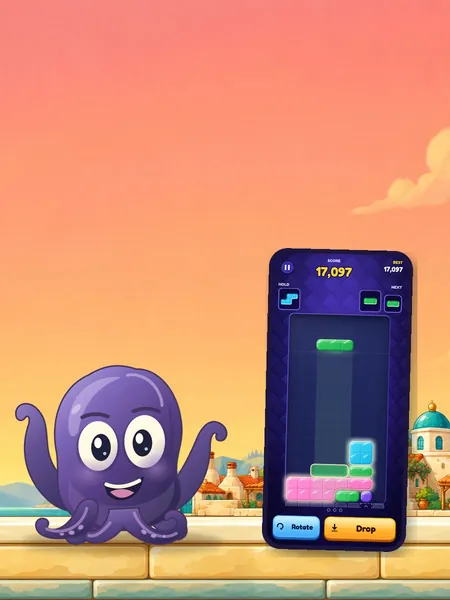
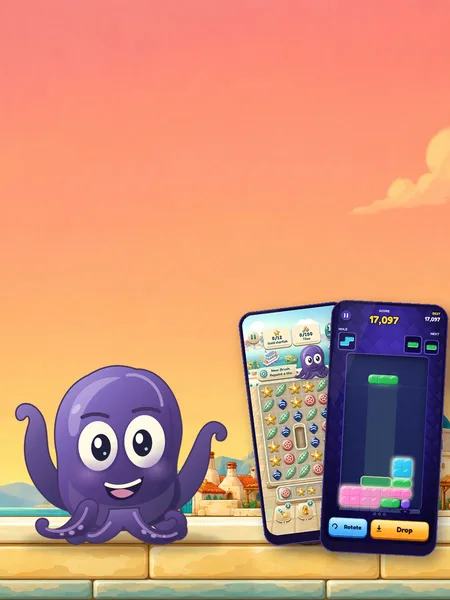
Home hero: Otto beside two phones (Turnstone and Tumble), set right of the studio cat; alt text updated

Changed region(s): [[0.5289, 0.39, 1.0, 0.96]]

diff --git a/index.html b/index.html
@@ -36,10 +36,10 @@
 <main id="main" tabindex="-1" class="main-wide">
 <section class="hero" aria-labelledby="studio-name">
 <picture class="hero-art">
-<source media="(max-width: 1099px)" type="image/webp" srcset="assets/img/home/hero-tall-450.webp?v=2 450w, assets/img/home/hero-tall-900.webp?v=2 900w" sizes="100vw">
-<source media="(max-width: 1099px)" srcset="assets/img/home/hero-tall-900.jpg?v=2 900w" sizes="100vw">
-<source type="image/webp" srcset="assets/img/home/hero-wide-1200.webp?v=2 1200w, assets/img/home/hero-wide-1800.webp?v=2 1800w, assets/img/home/hero-wide-2400.webp?v=2 2400w" sizes="100vw">
-<img src="assets/img/home/hero-wide-1200.jpg?v=2" srcset="assets/img/home/hero-wide-1200.jpg?v=2 1200w, assets/img/home/hero-wide-1800.jpg?v=2 1800w" sizes="100vw" width="2400" height="1200" alt="Otto the octopus and a phone showing Tumble, side by side on a sunny stone quay at golden hour, with the studio cat sitting between them and a harbor town behind" fetchpriority="high" decoding="async">
+<source media="(max-width: 1099px)" type="image/webp" srcset="assets/img/home/hero-tall-450.webp?v=4 450w, assets/img/home/hero-tall-900.webp?v=4 900w" sizes="100vw">
+<source media="(max-width: 1099px)" srcset="assets/img/home/hero-tall-900.jpg?v=4 900w" sizes="100vw">
+<source type="image/webp" srcset="assets/img/home/hero-wide-1200.webp?v=4 1200w, assets/img/home/hero-wide-1800.webp?v=4 1800w, assets/img/home/hero-wide-2400.webp?v=4 2400w" sizes="100vw">
+<img src="assets/img/home/hero-wide-1200.jpg?v=4" srcset="assets/img/home/hero-wide-1200.jpg?v=4 1200w, assets/img/home/hero-wide-1800.jpg?v=4 1800w" sizes="100vw" width="2400" height="1200" alt="Otto the octopus on a sunny stone quay at golden hour beside two phones showing Turnstone and Tumble, with the studio cat sitting between them and a harbor town behind" fetchpriority="high" decoding="async">
 </picture>
 <div class="hero-copy">
 <h1 id="studio-name" class="toy-title">Jarvis Studios</h1>

diff --git a/press/index.html b/press/index.html
@@ -38,7 +38,7 @@
 <nav class="breadcrumb" aria-label="Breadcrumb"><ol><li><a href="../">Home</a></li><li><a href="../about/">About</a></li><li aria-current="page">Press kit</li></ol></nav>
 <h1>Press kit</h1>
 <p class="lead">Facts, art and screenshots for writing about Jarvis Studios and our games.</p>
-<div class="press-hero"><picture><source type="image/webp" srcset="../assets/img/home/hero-wide-1200.webp 1200w, ../assets/img/home/hero-wide-1800.webp 1800w" sizes="(min-width: 1100px) 1048px, 92vw"><img class="panel-img" src="../assets/img/home/hero-wide-1200.jpg" width="2400" height="1200" alt="Otto the octopus and a phone showing Tumble on a sunny stone quay, with the studio cat between them" loading="lazy" decoding="async"></picture></div>
+<div class="press-hero"><picture><source type="image/webp" srcset="../assets/img/home/hero-wide-1200.webp 1200w, ../assets/img/home/hero-wide-1800.webp 1800w" sizes="(min-width: 1100px) 1048px, 92vw"><img class="panel-img" src="../assets/img/home/hero-wide-1200.jpg" width="2400" height="1200" alt="Otto the octopus beside two phones showing Turnstone and Tumble on a sunny stone quay, with the studio cat between them" loading="lazy" decoding="async"></picture></div>
 <section class="section" aria-labelledby="facts">
 <h2 id="facts">Studio fact sheet</h2>
 <dl class="fact-sheet">

diff --git a/tools/build.py b/tools/build.py
@@ -453,10 +453,10 @@ def news_cards(items, heading_level=3):
 def build_home():
     body = f"""<section class="hero" aria-labelledby="studio-name">
 <picture class="hero-art">
-<source media="(max-width: 1099px)" type="image/webp" srcset="{R}assets/img/home/hero-tall-450.webp?v=2 450w, {R}assets/img/home/hero-tall-900.webp?v=2 900w" sizes="100vw">
-<source media="(max-width: 1099px)" srcset="{R}assets/img/home/hero-tall-900.jpg?v=2 900w" sizes="100vw">
-<source type="image/webp" srcset="{R}assets/img/home/hero-wide-1200.webp?v=2 1200w, {R}assets/img/home/hero-wide-1800.webp?v=2 1800w, {R}assets/img/home/hero-wide-2400.webp?v=2 2400w" sizes="100vw">
-<img src="{R}assets/img/home/hero-wide-1200.jpg?v=2" srcset="{R}assets/img/home/hero-wide-1200.jpg?v=2 1200w, {R}assets/img/home/hero-wide-1800.jpg?v=2 1800w" sizes="100vw" width="2400" height="1200" alt="Otto the octopus and a phone showing Tumble, side by side on a sunny stone quay at golden hour, with the studio cat sitting between them and a harbor town behind" fetchpriority="high" decoding="async">
+<source media="(max-width: 1099px)" type="image/webp" srcset="{R}assets/img/home/hero-tall-450.webp?v=4 450w, {R}assets/img/home/hero-tall-900.webp?v=4 900w" sizes="100vw">
+<source media="(max-width: 1099px)" srcset="{R}assets/img/home/hero-tall-900.jpg?v=4 900w" sizes="100vw">
+<source type="image/webp" srcset="{R}assets/img/home/hero-wide-1200.webp?v=4 1200w, {R}assets/img/home/hero-wide-1800.webp?v=4 1800w, {R}assets/img/home/hero-wide-2400.webp?v=4 2400w" sizes="100vw">
+<img src="{R}assets/img/home/hero-wide-1200.jpg?v=4" srcset="{R}assets/img/home/hero-wide-1200.jpg?v=4 1200w, {R}assets/img/home/hero-wide-1800.jpg?v=4 1800w" sizes="100vw" width="2400" height="1200" alt="Otto the octopus on a sunny stone quay at golden hour beside two phones showing Turnstone and Tumble, with the studio cat sitting between them and a harbor town behind" fetchpriority="high" decoding="async">
 </picture>
 <div class="hero-copy">
 <h1 id="studio-name" class="toy-title">Jarvis Studios</h1>
@@ -1099,7 +1099,7 @@ def build_press():
     dl = "\n".join(f'<li><a href="{R}{p}" download><span class="doc-name">{esc(t)}</span><span class="doc-meta">{esc(m)}</span></a></li>' for t, p, m in downloads)
     body = f"""<h1>Press kit</h1>
 <p class="lead">Facts, art and screenshots for writing about {STUDIO} and our games.</p>
-<div class="press-hero">{pic("home/hero-wide", [1200, 1800], "(min-width: 1100px) 1048px, 92vw", "Otto the octopus and a phone showing Tumble on a sunny stone quay, with the studio cat between them", 2400, 1200, cls="panel-img")}</div>
+<div class="press-hero">{pic("home/hero-wide", [1200, 1800], "(min-width: 1100px) 1048px, 92vw", "Otto the octopus beside two phones showing Turnstone and Tumble on a sunny stone quay, with the studio cat between them", 2400, 1200, cls="panel-img")}</div>
 <section class="section" aria-labelledby="facts">
 <h2 id="facts">Studio fact sheet</h2>
 <dl class="fact-sheet">
